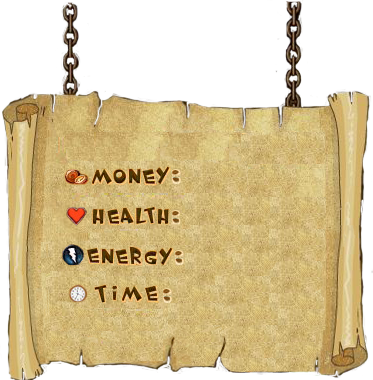
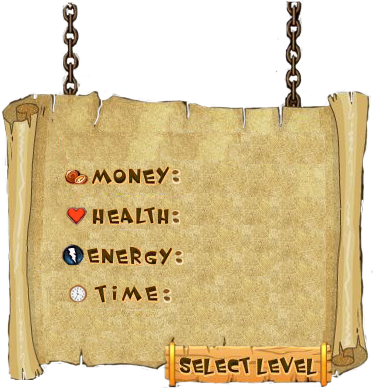
Последний коммит.

diff --git a/public_html/js/GameFunc.js b/public_html/js/GameFunc.js
@@ -294,6 +294,8 @@ function PaintFrame(cellSize, game)
     if(status==2)
     {
         YouWin(example,game.Player,infoimage);
+        OnStatClic(example.width,example.height,targetX*CellSize,targetY*CellSize);
+        return;
     }
   if(wait==0)
   {
@@ -372,6 +374,8 @@ function PaintFrame(cellSize, game)
             if (game.Player.rate >= targetRate)
             {
                // YouWin(example,game.Player,infoimage);
+               targetX=0;
+               targetY=0;
                status=2;
                 return;
             }

diff --git a/public_html/js/DrawInfo.js b/public_html/js/DrawInfo.js
@@ -29,10 +29,10 @@ function ShowStatistic(ctx, cstat, x, y, w, h, player)
 }
 function OnStatClic(w,h,x,y)
 {
-    var bx=w*0.39;
-    var by=h*0.68;
-    var bh=h*0.077;
-    var bw=w*0.238;
+    var bx=w*0.23;
+    var by=h*0.58;
+    var bh=h*0.72;
+    var bw=w*0.46;
     if(x>bx && x<bx+bw)
     {
         if(y>by && y<by+bh)
